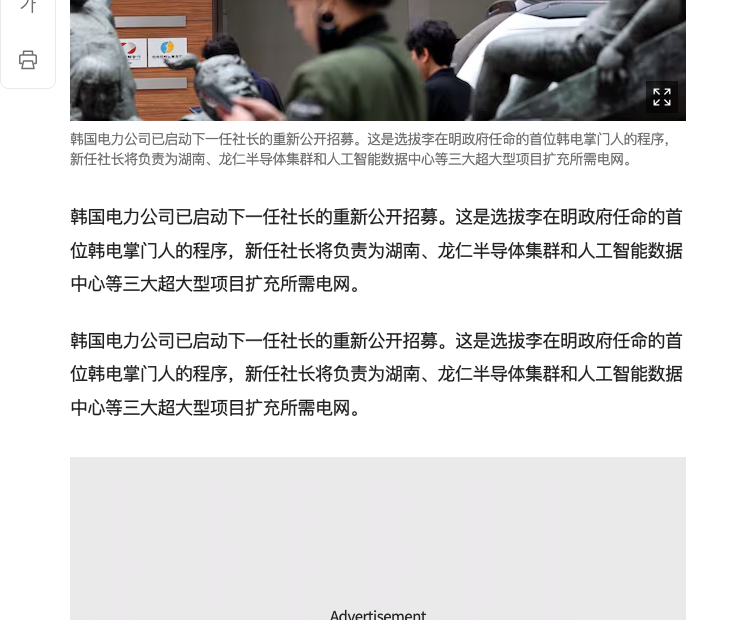
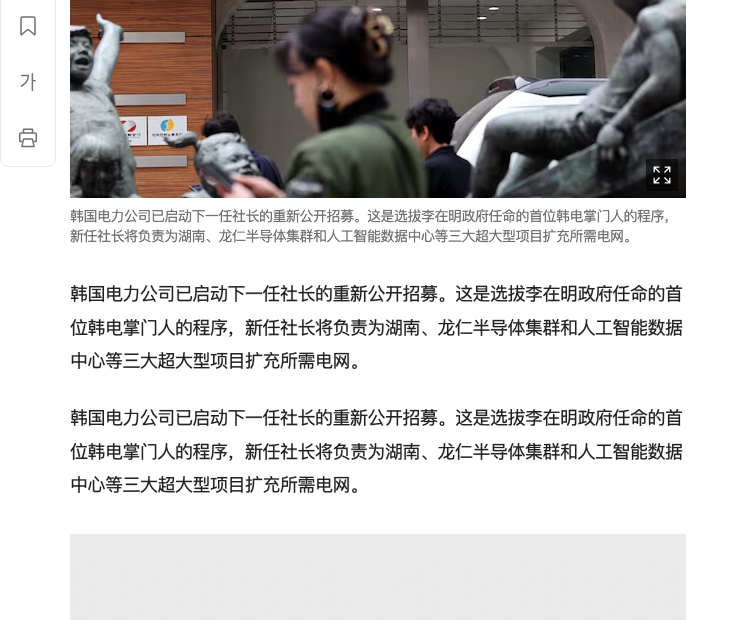
fix: 分离双语与仅译文字体策略
双语目标不再套用仅译文的目标语言字体壳，恢复原站字体、CJK 标题缩放、行高、自定义字号和响应式排版；仅译文继续使用目标语言兼容字体。补充模式热切换、computed style、截图 A/B 和还原回归。版本保持 0.11.6，不推送、不发布。

diff --git a/content/dom.js b/content/dom.js
@@ -1769,6 +1769,24 @@
       return p.stack;
     }
 
+    function policy(opts) {
+      var args = opts || {};
+      var mode = args.mode || DT.state.mode || 'translation';
+      var lang = args.target || args.lang || DT.state.target;
+      var source = args.sourceElement || null;
+      var family = source ? familyOf(source) : (args.fontFamily || '');
+      var key = keyFor(lang);
+      if (mode !== 'translation') {
+        return { adapt: false, mode: mode, target: key, reason: 'dual-preserve-source' };
+      }
+      if (!key) return { adapt: false, mode: mode, target: '', reason: 'no-profile' };
+      if (!family) return { adapt: false, mode: mode, target: key, reason: 'no-family' };
+      if (!needs(lang, family)) {
+        return { adapt: false, mode: mode, target: key, reason: 'font-compatible' };
+      }
+      return { adapt: true, mode: mode, target: key, stack: profiles[key].stack, reason: 'target-font-needed' };
+    }
+
     function protectedEl(el) {
       if (!el || el.nodeType !== 1) return false;
       var tag = tagOf(el);
@@ -1778,10 +1796,12 @@
 
     function apply(node, lang, sourceEl) {
       if (!node || !sourceEl || !String(node.textContent || '').trim()) return false;
+      var decision = policy({ mode: DT.state.mode, target: lang, sourceElement: sourceEl });
+      if (!decision.adapt) return false;
       if (protectedEl(sourceEl)) return false;
       if (DT.areaOf && DT.areaOf(sourceEl) !== 'content') return false;
       var family = familyOf(sourceEl);
-      var stack = stackFor(lang, family);
+      var stack = decision.stack || stackFor(lang, family);
       if (!stack) return false;
       var key = keyFor(lang);
       node.setAttribute('data-dt-font', key);
@@ -1799,6 +1819,7 @@
       if (!node || node.nodeType !== 3 || !/\S/.test(node.nodeValue || '')) return null;
       var parent = node.parentNode;
       if (!parent || parent.nodeType !== 1 || !parent.parentNode) return null;
+      if (DT.state.mode === 'dual') return null;
       if (parent.closest && parent.closest('a, [data-dt-font], [data-dt-ui]')) return null;
       if (protectedEl(parent) || (unit && unit.el && protectedEl(unit.el))) return null;
       // 导航 / 按钮 / 输入框等控件的 direct text node 不要加 inline 壳，避免 flex 布局多一项。
@@ -1833,6 +1854,7 @@
       keyFor: keyFor,
       needs: needs,
       stackFor: stackFor,
+      policy: policy,
       apply: apply,
       wrapText: wrapText
     };

diff --git a/docs/ROADMAP.md b/docs/ROADMAP.md
@@ -1,7 +1,7 @@
 # 路线图
 
 > 记录「接下来做什么、为什么这样排」。架构与坑位见 [../HANDOFF.md](../HANDOFF.md)，翻译引擎的实现细节见 [TRANSLATION-ENGINE-HANDOFF.md](TRANSLATION-ENGINE-HANDOFF.md)。
-> 最近更新：2026-10-23，0.11.6 本地完成（韩文→中文目标字体适配 + 局部加粗修复 + 样式诊断，待发布）；0.11.5 已推送（RTL/LTR 双向排版 + 中国全科医学 RichHTML 仅译文 / 闪烁修复）；0.11.4 已发布（专业引擎 v2、医学质量 / 复核与 JAMA 上标修复）；0.11.3 已发布（普通链接 / Ruby / pre-wrap 混排与悬浮球首帧修复）；0.11.2 已发布（论文段落里引用 + 图表链接混排的仅译文渲染）；0.11.1 已发布（仅译文引用修复）；0.11.0 已发布（医学专业模式 + 通用学术引用 / 行内链接修复）；0.10.2 已发布（开放 Shadow DOM / B 站评论区）。0.10.1 已发布（论文引用保真、液态玻璃开关对齐）；Edge 线上 0.9.6（0.9.7 审核中）、Chrome 线上 0.8.3，见 §4.2。
+> 最近更新：2026-10-23，0.11.6 本地完成（双语/仅译文字体策略分离 + 韩文→中文目标字体适配 + 局部样式诊断，待发布）；0.11.5 已推送（RTL/LTR 双向排版 + 中国全科医学 RichHTML 仅译文 / 闪烁修复）；0.11.4 已发布（专业引擎 v2、医学质量 / 复核与 JAMA 上标修复）；0.11.3 已发布（普通链接 / Ruby / pre-wrap 混排与悬浮球首帧修复）；0.11.2 已发布（论文段落里引用 + 图表链接混排的仅译文渲染）；0.11.1 已发布（仅译文引用修复）；0.11.0 已发布（医学专业模式 + 通用学术引用 / 行内链接修复）；0.10.2 已发布（开放 Shadow DOM / B 站评论区）。0.10.1 已发布（论文引用保真、液态玻璃开关对齐）；Edge 线上 0.9.6（0.9.7 审核中）、Chrome 线上 0.8.3，见 §4.2。
 
 ---
 
@@ -69,7 +69,7 @@
 | 0.11.3 | 普通链接混合段落统一原地翻译；Ruby 与 pre-wrap 硬换行进入混合渲染；悬浮球首帧直接落在最终位置 |
 | 0.11.4 | 专业翻译引擎 v2（通用 / 医学 Profile、质量与复核、上下文、缓存隔离）；医学规则 / 词库升级；JAMA 上标引用污染修复 |
 | 0.11.5 | RTL/LTR 双向排版适配；中国全科医学 RichHTML 的 [8]/［9］引用、补充材料链接与仅译文稳定渲染；消除专业上下文自身 mutation 引发的 startOver 闪烁 |
-| 0.11.6 | 韩文/日文网页翻中文的目标字体适配；按 font-weight / font-style / font-family 识别局部强调；局部样式诊断和真实朝鲜日报字体 A/B |
+| 0.11.6 | 双语/仅译文字体策略分离；仅译文使用目标语言兼容字体，双语保留原站字体和自适应排版；局部样式诊断和真实朝鲜日报字体 A/B |
 
 ---
 
@@ -139,7 +139,7 @@
 | **0.11.3** | 补丁：普通链接 / Ruby / pre-wrap 混排继续走原地翻译，不再退回双语；悬浮球首帧从左上角飞过；详见 HANDOFF §14 |
 | **0.11.4** | 专业引擎 v2：通用 / 医学 Profile、质量快速 / 标准 / 严格与复核预算、医学规则 / 术语 / 上下文 / 校验 / 缓存隔离；JAMA 上标引用安全落点；详见 HANDOFF §14 与 [PROFESSIONAL-TRANSLATION.md](PROFESSIONAL-TRANSLATION.md) |
 | **0.11.5** | 双向排版（RTL/LTR）+ 中文医学 RichHTML 仅译文 / 引用链接 / 专业上下文闪烁修复；详见提交 4c2784d |
-| **0.11.6** | 韩文→中文目标字体适配 + 随机加粗修复 + 局部样式诊断 + 真实朝鲜日报字体 A/B；详见 HANDOFF §5.2.1、§7.2b、§14 |
+| **0.11.6** | 双语/仅译文字体策略分离 + 韩文→中文目标字体适配 + 局部样式诊断 + 真实朝鲜日报字体 A/B；详见 HANDOFF §5.2.1、§7.2b、§14 |
 | **0.12.0** | 站点规则进阶 + 会话级 Key 存储 |
 | **0.13.0** | 夜间模式自动识别 + 悬浮入口增强 |
 

diff --git a/HANDOFF.md b/HANDOFF.md
@@ -770,7 +770,7 @@ copy(JSON.stringify(__DT.inspectTextStyle('异常中文', 20), null, 2))
 
 - **韩文随机加粗**：仅译文的 writeNodes 仍会优先复用第一个可写 TextNode。若该节点位于局部 strong / b / em / 粗体 span 内，完整译文会继承局部强调。新增 font-weight / font-style / font-family 样式边界：局部强调壳未覆盖整段时，在壳外创建 RenderTransaction 保护的 TextNode；整段强调壳或加粗标题保留原样式。
 - **字体族**：朝鲜日报等站点会用 NotoSansKR-Bold 等粗体字体族但 computed font-weight=400。styleOf 缓存之前漏掉 fontFamily，导致这一层无法识别；现在同时比较 fontWeight、fontStyle 和 bold/black/heavy 字体族。
-- **目标语言字体适配**：chrome 的 `DT.fonts` 按目标脚本注册字体栈（zh-CN / zh-TW / ja / ko，register 可扩展）；只有源字体命中其他文字系统的已知字体、且没有目标文字系统字体时才适配，不做站点 CSS 硬编码。目标文字用 inline `.dt-font` 壳（display:contents）承载 font-family；仅译文包原 TextNode，双语只改 .dt-target。标题、code/pre、公式、控件和兼容字体跳过；字号 / 字重 / 行高 / 颜色继承，字体壳 insert+moving 全进 RenderTransaction，isOwnNode 忽略 data-dt-font 防止 MutationObserver 重扫。
+- **目标语言字体适配**：chrome 的 `DT.fonts` 按目标脚本注册字体栈（zh-CN / zh-TW / ja / ko，register 可扩展）；只有源字体命中其他文字系统的已知字体、且没有目标文字系统字体时才适配，不做站点 CSS 硬编码。目标文字用 inline `.dt-font` 壳（display:contents）承载 font-family；只用于仅译文，包原 TextNode。双语显式走 `policy({mode:'dual'})`，不碰 .dt-target 的 font-family，保留原站字体、CJK 标题缩放、行高和自定义 CSS。标题、code/pre、公式、控件和兼容字体跳过；字号 / 字重 / 行高 / 颜色继承，字体壳 insert+moving 全进 RenderTransaction，isOwnNode 忽略 data-dt-font 防止 MutationObserver 重扫。
 - **多行 / 混合**：injectLines 对只被一行使用的行首节点做壳外迁移；injectMixed 的 put 经过 styleSafeSlot；pre-wrap、嵌套 strong/em、行内链接和引用均有本地 fixture。
 - **诊断**：DT.inspectTextStyle(needle) 返回实际 computed font-weight / font-size / font-family / font-style、从文本节点到正文容器的祖先链、写入前 DOM / 样式与当前 DOM；DT.diagnose 增加 styleBoundaryAware / styleInspector。真实朝鲜日报地址可通过 tools/e2e-extension.mjs --chosun-live 使用本地假翻译检查，不发真实付费请求。
 - **字体 A/B 截图**：`--chosun-live` 使用本地假 API 返回统一中文，生成 docs/verification/2026-10-23-chosun-font-ab/ 的原文 / 中文适配 / 关闭还原三张截图；断言中文目标字体栈、原文 chosun-myeongjo 保留、关闭后字体壳和标记归零。

diff --git a/docs/verification/2026-10-23-chosun-font-ab/README.md b/docs/verification/2026-10-23-chosun-font-ab/README.md
@@ -11,12 +11,14 @@
 | `chosun-01-korean-source.png` | 未翻译，原文 `chosun-myeongjo, serif` |
 | `chosun-02-chinese-adapted.png` | 仅译文，目标文字使用 `"PingFang SC", "Microsoft YaHei", "Noto Sans CJK SC", sans-serif` |
 | `chosun-03-restored.png` | 关闭翻译，字体壳移除，原文韩文字体恢复 |
+| `chosun-04-dual.png` | 双语模式，目标译文保留原站字体、字号和行高 |
 
 验收关注：
 
 - 中文译文的字重、字号、行高、颜色与原文正文一致；
 - 中文字形均匀，不再出现部分字粗、部分字细；
 - 标题、代码 / 公式、图标和真正的强调文本不被字体壳覆盖；
+- 仅译文使用目标语言字体壳；双语目标不套字体壳，保留原站字体和自适应字号 / 行高；
 - 关闭翻译后 `.dt-font`、`data-dt-replaced`、`data-dt-target` 均无残留。
 
 截图中的中文文本由本地假 API 统一填充，仅用于字体渲染 A/B，不代表真实译文内容。

diff --git a/CHANGELOG.md b/CHANGELOG.md
@@ -5,7 +5,7 @@
 
 ## 0.11.6 — 韩文译文样式与目标字体适配
 - 韩文、日文网页翻成中文时，译文按目标文字系统选用兼容字体，中文不再一部分字粗、一部分字细。
-- 仅译文和双语只调整译文、不改原文，关闭翻译后恢复原有韩文字体和排版。
+- 双语的译文保留原站字体和自适应排版，仅译文使用目标语言兼容字体，关闭翻译后两者都恢复原样。
 - 保留原文字号、字重、行高和颜色，标题、代码、公式、图标和真正的强调文本不被错误覆盖。
 - 新增局部文字样式诊断，可查看异常中文的实际字重、字体族、祖先链和翻译前后 DOM。
 
